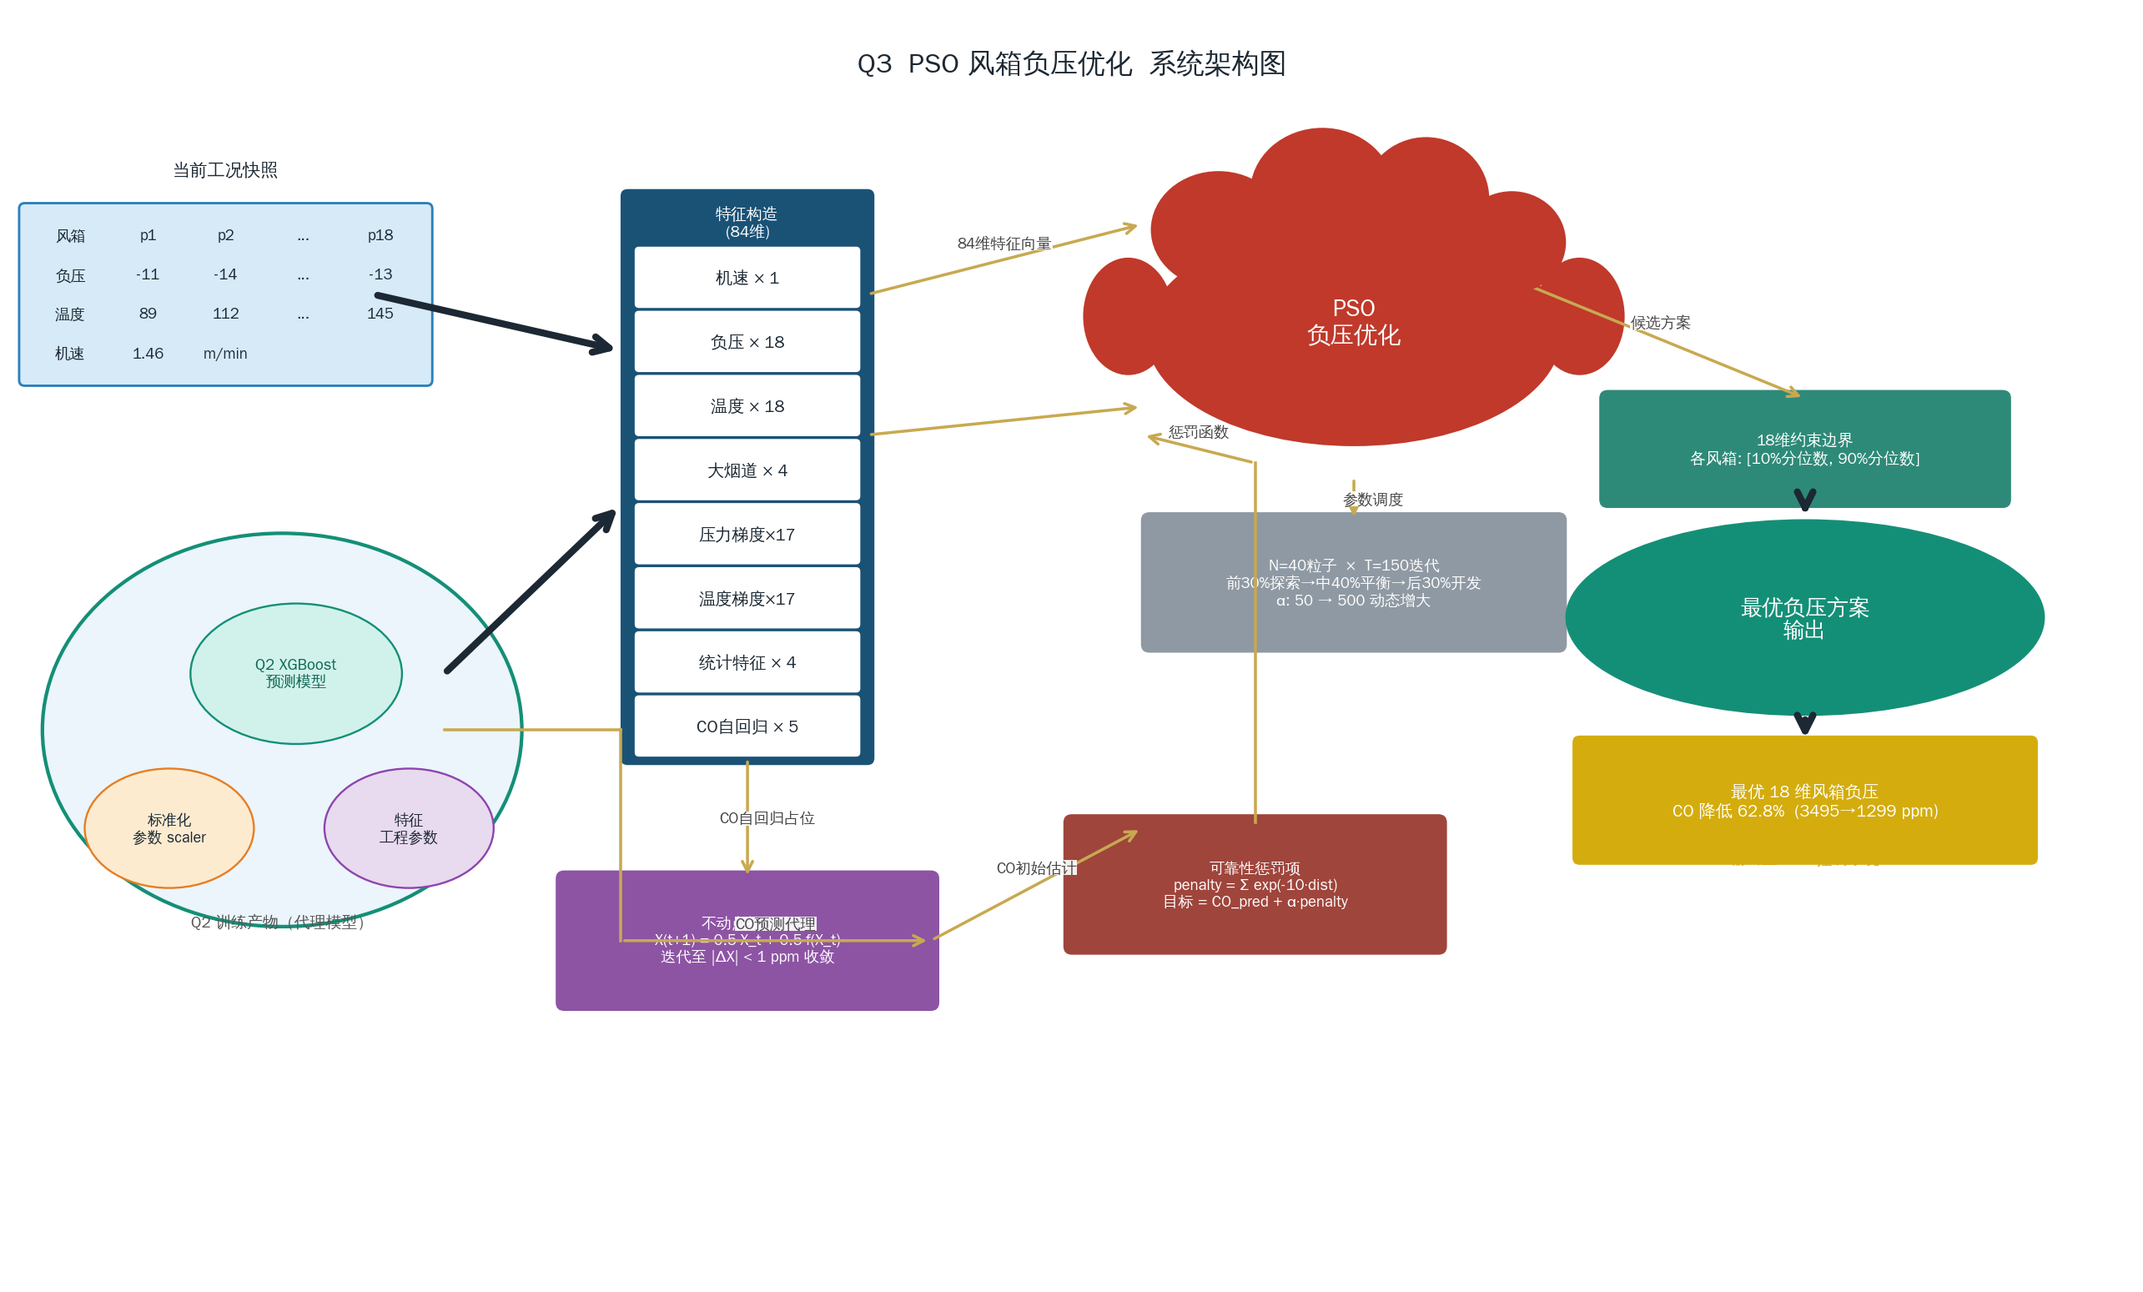
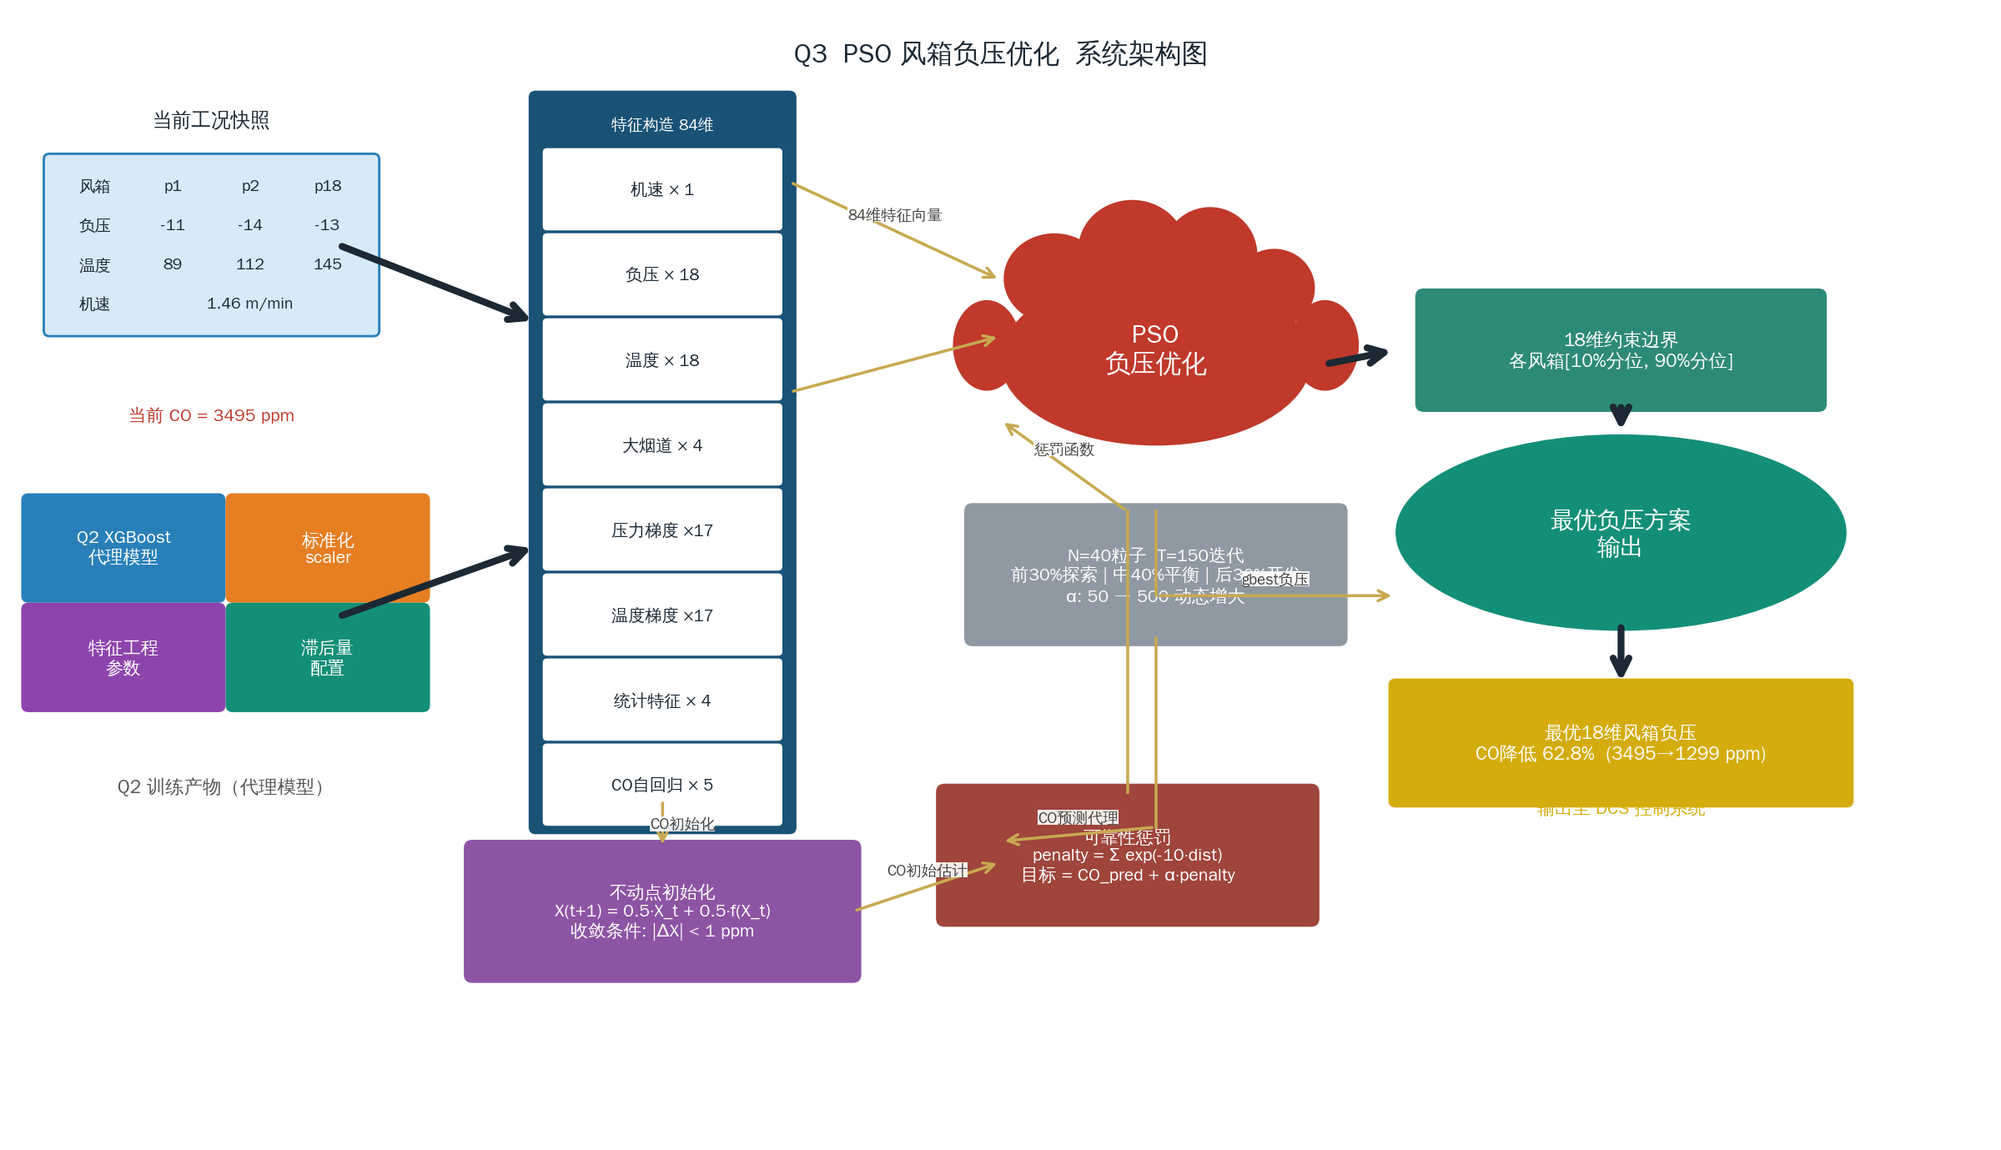
Redesign PSO arch diagrams: smaller clouds, larger fonts, compact layout
Replace oversized background ellipses with 2x2 compact color-block grid.
Increase all font sizes, reduce cloud size to match text proportions.

https://claude.ai/code/session_01LcBaKyPS88nU1pFVtHDwPW

Changed region(s): [[0.0, 0.0624, 0.9562, 0.8731], [0.401, 0.0312, 0.6169, 0.0624], [0.0617, 0.343, 0.1542, 0.3742]]

diff --git a/gen_pso_arch.py b/gen_pso_arch.py
@@ -147,121 +147,109 @@ def thin_arr(ax, pts, lbl='', color=BEIGE, lw=1.5, fs=7.8, li=0, ls='top'):
                 bbox=dict(fc='white', ec='none', pad=0.1, alpha=0.9))
 
 
+def feat_group_grid(ax, cx, cy, items, zorder=4):
+    """2列紧凑特征分组小色块（替代大背景椭圆）"""
+    colors = ['#2980B9','#E67E22','#8E44AD','#148F77']
+    cols, w, h, gap = 2, 1.35, 0.68, 0.10
+    rows = (len(items)+1)//2
+    total_w = cols*w + (cols-1)*gap
+    total_h = rows*h + (rows-1)*gap
+    x0 = cx - total_w/2
+    y0 = cy + total_h/2
+    for i,(label,fc) in enumerate(zip(items, colors)):
+        r, c = divmod(i, cols)
+        bx = x0 + c*(w+gap) + w/2
+        by = y0 - r*(h+gap) - h/2
+        ax.add_patch(FancyBboxPatch((bx-w/2, by-h/2), w, h,
+                     boxstyle='round,pad=0.05', fc=fc, ec='none', zorder=zorder))
+        ax.text(bx, by, label, ha='center', va='center',
+                fontsize=9, color=WHITE, fontweight='bold',
+                zorder=zorder+1, multialignment='center')
+
+
 # ══════════════════════════════════════════════════════════════════════════════
 # Q2 PSO 超参数优化架构图
 # ══════════════════════════════════════════════════════════════════════════════
 def gen_q2():
-    fig, ax = plt.subplots(figsize=(15, 9))
-    ax.set_xlim(0, 15); ax.set_ylim(0, 9)
+    fig, ax = plt.subplots(figsize=(14, 8))
+    ax.set_xlim(0, 14); ax.set_ylim(0, 8)
     ax.axis('off')
     fig.patch.set_facecolor(WHITE)
 
-    # ── 标题 ──
-    ax.text(7.5, 8.65,
-            'Q2  XGBoost-PSO 超参数优化  系统架构图',
-            ha='center', va='center', fontsize=14, fontweight='bold', color='#1C2833')
+    ax.text(7.0, 7.72, 'Q2  XGBoost-PSO 超参数优化  系统架构图',
+            ha='center', va='center', fontsize=13.5, fontweight='bold', color='#1C2833')
 
-    # ── 左：输入数据 ──
-    ax.text(1.5, 7.85, '输入训练数据', ha='center', fontsize=9,
+    # ── 左：输入数据表格 ──
+    ax.text(1.4, 7.2, '输入训练数据', ha='center', fontsize=10,
             fontweight='bold', color='#1C2833')
-    table_box(ax, 1.5, 7.1,
+    table_box(ax, 1.4, 6.35,
               [['x1', 'x2', '...', 'x84'],
                ['p11', 'p12', '...', 'CO1'],
                ['p21', 'p22', '...', 'CO2'],
-               ['.',  '.',  '..',  '.' ]])
-    ax.text(1.5, 5.75, '1624 × 84  训练样本',
-            ha='center', fontsize=8, color='#555555')
+               ['..',  '..',  '...',  '..' ]])
+    ax.text(1.4, 5.1, '1624×84  训练样本',
+            ha='center', fontsize=9, color='#555555')
 
-    # ── 左下：特征分组说明（仿椭圆内含圆）──
-    ax.add_patch(Ellipse((1.8, 4.0), 3.2, 2.6,
-                         fc='#EBF5FB', ec='#2980B9', lw=1.5, zorder=2))
-    ax.add_patch(Ellipse((2.9, 4.5), 1.4, 1.0,
-                         fc='#D6EAF8', ec='#2980B9', lw=1, zorder=3))
-    ax.text(2.9, 4.5, 'p1\n物理特征\n41维',
-            ha='center', va='center', fontsize=7.5,
-            color='#1C2833', zorder=4, multialignment='center')
-    ax.add_patch(Ellipse((1.0, 4.6), 1.1, 0.8,
-                         fc='#FDEBD0', ec='#E67E22', lw=1, zorder=3))
-    ax.text(1.0, 4.6, 'p2\n梯度\n34维',
-            ha='center', va='center', fontsize=7.5,
-            color='#1C2833', zorder=4, multialignment='center')
-    ax.add_patch(Ellipse((1.2, 3.3), 1.0, 0.78,
-                         fc='#E8DAEF', ec='#8E44AD', lw=1, zorder=3))
-    ax.text(1.2, 3.3, 'p3\n统计\n4维',
-            ha='center', va='center', fontsize=7.5,
-            color='#1C2833', zorder=4, multialignment='center')
-    ax.add_patch(Ellipse((2.5, 3.2), 1.1, 0.78,
-                         fc='#D5F5E3', ec='#148F77', lw=1, zorder=3))
-    ax.text(2.5, 3.2, 'p4\nCO自回归\n5维',
-            ha='center', va='center', fontsize=7.5,
-            color='#1C2833', zorder=4, multialignment='center')
-    ax.text(1.8, 2.55, '特征分组（84维）',
-            ha='center', fontsize=8, color='#555555', style='italic')
+    # ── 左下：特征分组（紧凑2×2色块）──
+    feat_group_grid(ax, 1.5, 3.9,
+                    ['物理特征\n41维', '梯度特征\n34维',
+                     '统计特征\n4维',  'CO自回归\n5维'])
+    ax.text(1.5, 2.45, '特征工程（84维）',
+            ha='center', fontsize=9.5, color='#555555', style='italic', fontweight='bold')
 
     # ── 中：特征列表高矩形 ──
-    feat_box(ax, 5.2, 5.8, 1.7, 4.2,
-             '特征体系',
+    feat_box(ax, 4.6, 4.8, 1.8, 5.2,
+             '特征体系 84维',
              ['机速 × 1', '负压 × 18', '温度 × 18',
-              '大烟道 × 4', '压力梯度×17', '温度梯度×17',
-              '统计特征×4', 'CO自回归×5'],
+              '大烟道 × 4', '压力梯度 ×17', '温度梯度 ×17',
+              '统计特征 × 4', 'CO自回归 × 5'],
              bg='#148F77')
 
-    # ── 中：3折CV注释 ──
-    annot_box(ax, 5.2, 2.4, 2.4, 0.7,
-              '3折 TimeSeriesSplit CV\n（PSO内部适应度评估）',
-              fc=PURPLE, fs=8)
+    # ── 中下：3折CV注释 ──
+    annot_box(ax, 4.6, 1.6, 2.5, 0.78,
+              '3折 TimeSeriesSplit CV\n（PSO内部加速评估）',
+              fc=PURPLE, fs=9)
 
-    # ── 中右：PSO 搜索空间注释 ──
-    annot_box(ax, 8.8, 3.0, 2.5, 1.0,
-              '7维超参数搜索空间\nlr∈[0.01,0.50]\ndepth∈[2,8]  n_est∈[50,500]',
-              fc=GRAY, fs=7.8)
+    # ── 中右：搜索空间注释 ──
+    annot_box(ax, 8.0, 2.0, 2.7, 1.0,
+              '7维超参数搜索空间\nlr∈[0.01,0.50]  depth∈[2,8]\nn_est∈[50,500]  sub∈[0.5,1]',
+              fc=GRAY, fs=9)
 
-    # ── 右上：PSO云朵主模型 ──
-    cloud(ax, 9.5, 6.8, 3.2, 2.2, RED,
-          'PSO\n超参数优化',
-          fs=12, italic=True)
-    annot_box(ax, 9.5, 5.1, 2.8, 0.72,
-              'N=8粒子  ×  T=10迭代\nw=0.8,  c1=c2=2.0（固定）',
-              fc='#922B21', fs=8)
+    # ── 右：PSO云朵（缩小，字体放大）──
+    cloud(ax, 8.2, 5.6, 2.4, 1.7, RED,
+          'PSO\n超参数优化', fs=13, italic=True)
+    annot_box(ax, 8.2, 4.0, 2.6, 0.76,
+              'N=8粒子  T=10迭代\nw=0.8,  c1=c2=2.0（固定）',
+              fc='#922B21', fs=9.5)
 
-    # ── 右：XGBoost模型椭圆 ──
-    oval(ax, 12.6, 6.2, 3.5, 1.6, TEAL,
-         'XGBoost\n预测模型', fs=11)
+    # ── 右：XGBoost 椭圆 ──
+    oval(ax, 11.5, 5.4, 3.4, 1.5, TEAL,
+         'XGBoost\n预测模型', fs=12)
 
-    # ── 右下：5折最终评估注释 ──
-    annot_box(ax, 12.6, 4.8, 3.0, 0.72,
-              '5折 TimeSeriesSplit CV\n最终评估  R²=0.8862',
-              fc='#117A65', fs=8)
+    # ── 右下：5折CV ──
+    annot_box(ax, 11.5, 4.1, 3.0, 0.76,
+              '5折 TimeSeriesSplit CV（最终评估）\nR²=0.8862  ±  0.101',
+              fc='#117A65', fs=9)
 
-    # ── 右下：输出 ──
-    proc_box(ax, 12.6, 3.5, 3.0, 0.75,
-             'CO 浓度预测模型\n测试集 R²=0.9493  MAE=43.18 ppm',
-             fc=GOLD, fs=8.5)
-    ax.text(12.6, 3.05, '输出', ha='center', fontsize=8,
+    # ── 输出 ──
+    proc_box(ax, 11.5, 2.8, 3.2, 0.82,
+             'CO 浓度预测模型\n测试集 R²=0.9493   MAE=43 ppm',
+             fc=GOLD, fs=9.5)
+    ax.text(11.5, 2.3, '输出', ha='center', fontsize=9,
             color=GOLD, fontweight='bold')
 
     # ── 连线 ──
-    # 输入 → 特征列表
-    thick_arr(ax, 2.55, 7.1, 4.3, 6.8, '')
-    # 特征分组 → 特征列表
-    thick_arr(ax, 2.85, 4.5, 4.3, 5.0, '')
-    # 特征列表 → PSO
-    thin_arr(ax, [(6.05, 7.5), (8.0, 7.5)], '特征矩阵 X_tr')
-    thin_arr(ax, [(6.05, 6.5), (8.0, 6.1)], '84维特征')
-    thin_arr(ax, [(6.05, 5.2), (8.0, 5.5)], '')
-    # 特征列表 → 3折CV
-    thin_arr(ax, [(5.2, 3.7), (5.2, 2.75)], 'CV数据')
-    # 3折CV → PSO（反馈适应度）
-    thin_arr(ax, [(6.4, 2.4), (8.0, 3.0)], 'CV-R² 适应度')
-    # PSO → XGBoost
-    thick_arr(ax, 10.65, 6.5, 10.8, 6.3, '')
-    # gbest → XGBoost
-    thin_arr(ax, [(9.5, 5.7), (9.5, 4.7), (10.8, 4.7)],
-             'gbest 最优参数', li=1)
-    # XGBoost → 5折CV
-    thin_arr(ax, [(12.6, 5.4), (12.6, 5.15)], '')
-    # 5折CV → 输出
-    thick_arr(ax, 12.6, 4.44, 12.6, 3.88, '')
+    thick_arr(ax, 2.3, 6.35, 3.7, 5.8)
+    thick_arr(ax, 2.4, 3.7, 3.7, 4.2)
+    thin_arr(ax, [(5.5, 6.8), (7.0, 6.2)], '特征矩阵 X_tr')
+    thin_arr(ax, [(5.5, 5.5), (7.0, 5.7)], '84维特征')
+    thin_arr(ax, [(5.5, 3.5), (7.0, 3.9)], '')
+    thin_arr(ax, [(4.6, 2.4), (4.6, 1.99)], 'CV数据')
+    thin_arr(ax, [(5.85, 1.6), (7.0, 2.0)], 'CV-R² 适应度')
+    thick_arr(ax, 9.4, 5.5, 9.8, 5.4)
+    thin_arr(ax, [(8.2, 4.62), (8.2, 3.85), (9.8, 3.85)], 'gbest 最优参数', li=1)
+    thin_arr(ax, [(11.5, 4.65), (11.5, 4.48)])
+    thick_arr(ax, 11.5, 3.73, 11.5, 3.21)
 
     plt.tight_layout(pad=0.3)
     plt.savefig('paper_figures/Q2_PSO_arch.png', dpi=170,
@@ -274,116 +262,87 @@ def gen_q2():
 # Q3 PSO 负压优化架构图
 # ══════════════════════════════════════════════════════════════════════════════
 def gen_q3():
-    fig, ax = plt.subplots(figsize=(15, 9))
-    ax.set_xlim(0, 15); ax.set_ylim(0, 9)
+    fig, ax = plt.subplots(figsize=(14, 8))
+    ax.set_xlim(0, 14); ax.set_ylim(0, 8)
     ax.axis('off')
     fig.patch.set_facecolor(WHITE)
 
-    ax.text(7.5, 8.65,
-            'Q3  PSO 风箱负压优化  系统架构图',
-            ha='center', va='center', fontsize=14, fontweight='bold', color='#1C2833')
+    ax.text(7.0, 7.72, 'Q3  PSO 风箱负压优化  系统架构图',
+            ha='center', va='center', fontsize=13.5, fontweight='bold', color='#1C2833')
 
-    # ── 左：当前工况输入 ──
-    ax.text(1.5, 7.85, '当前工况快照', ha='center', fontsize=9,
+    # ── 左：当前工况表格 ──
+    ax.text(1.4, 7.2, '当前工况快照', ha='center', fontsize=10,
             fontweight='bold', color='#1C2833')
-    table_box(ax, 1.5, 7.0,
-              [['风箱', 'p1', 'p2', '...', 'p18'],
-               ['负压', '-11', '-14', '...', '-13'],
-               ['温度', '89', '112', '...', '145'],
-               ['机速', '1.46', 'm/min', '', '']],
-              fs=7.8)
+    table_box(ax, 1.4, 6.35,
+              [['风箱', 'p1', 'p2', 'p18'],
+               ['负压', '-11', '-14', '-13'],
+               ['温度', '89', '112', '145'],
+               ['机速', '', '1.46 m/min', '']],
+              fs=8.2)
+    ax.text(1.4, 5.1, '当前 CO = 3495 ppm',
+            ha='center', fontsize=9, color='#C0392B', fontweight='bold')
 
-    # ── 左下：Q2 模型组（椭圆内含圆）──
-    ax.add_patch(Ellipse((1.9, 3.9), 3.4, 2.8,
-                         fc='#EBF5FB', ec='#148F77', lw=1.8, zorder=2))
-    ax.add_patch(Ellipse((2.0, 4.3), 1.5, 1.0,
-                         fc='#D1F2EB', ec='#148F77', lw=1, zorder=3))
-    ax.text(2.0, 4.3, 'Q2 XGBoost\n预测模型',
-            ha='center', va='center', fontsize=7.8,
-            color='#0E6655', fontweight='bold', zorder=4, multialignment='center')
-    ax.add_patch(Ellipse((1.1, 3.2), 1.2, 0.85,
-                         fc='#FDEBD0', ec='#E67E22', lw=1, zorder=3))
-    ax.text(1.1, 3.2, '标准化\n参数 scaler',
-            ha='center', va='center', fontsize=7.5,
-            color='#1C2833', zorder=4, multialignment='center')
-    ax.add_patch(Ellipse((2.8, 3.2), 1.2, 0.85,
-                         fc='#E8DAEF', ec='#8E44AD', lw=1, zorder=3))
-    ax.text(2.8, 3.2, '特征\n工程参数',
-            ha='center', va='center', fontsize=7.5,
-            color='#1C2833', zorder=4, multialignment='center')
-    ax.text(1.9, 2.5, 'Q2 训练产物（代理模型）',
-            ha='center', fontsize=8, color='#555555', style='italic')
+    # ── 左下：Q2代理模型（紧凑色块组）──
+    feat_group_grid(ax, 1.5, 3.8,
+                    ['Q2 XGBoost\n代理模型', '标准化\nscaler',
+                     '特征工程\n参数', '滞后量\n配置'])
+    ax.text(1.5, 2.45, 'Q2 训练产物（代理模型）',
+            ha='center', fontsize=9.5, color='#555555', style='italic', fontweight='bold')
 
     # ── 中：特征构造列表 ──
-    feat_box(ax, 5.2, 5.7, 1.7, 4.0,
-             '特征构造\n(84维)',
+    feat_box(ax, 4.6, 4.8, 1.8, 5.2,
+             '特征构造 84维',
              ['机速 × 1', '负压 × 18', '温度 × 18',
-              '大烟道 × 4', '压力梯度×17', '温度梯度×17',
+              '大烟道 × 4', '压力梯度 ×17', '温度梯度 ×17',
               '统计特征 × 4', 'CO自回归 × 5'],
              bg='#1A5276')
 
-    # ── 中：不动点初始化注释 ──
-    annot_box(ax, 5.2, 2.4, 2.6, 0.88,
-              '不动点初始化\nX(t+1) = 0.5·X_t + 0.5·f(X_t)\n迭代至 |ΔX| < 1 ppm 收敛',
-              fc=PURPLE, fs=7.8)
+    # ── 中下：不动点注释 ──
+    annot_box(ax, 4.6, 1.6, 2.7, 0.9,
+              '不动点初始化\nX(t+1) = 0.5·X_t + 0.5·f(X_t)\n收敛条件: |ΔX| < 1 ppm',
+              fc=PURPLE, fs=9)
 
-    # ── 中右：可靠性惩罚注释 ──
-    annot_box(ax, 8.8, 2.8, 2.6, 0.88,
-              '可靠性惩罚项\npenalty = Σ exp(-10·dist)\n目标 = CO_pred + α·penalty',
-              fc='#922B21', fs=7.8)
+    # ── 中右：惩罚项注释 ──
+    annot_box(ax, 7.9, 2.0, 2.6, 0.9,
+              '可靠性惩罚\npenalty = Σ exp(-10·dist)\n目标 = CO_pred + α·penalty',
+              fc='#922B21', fs=9)
 
-    # ── 右上：PSO云朵主模型 ──
-    cloud(ax, 9.5, 6.8, 3.2, 2.2, RED,
-          'PSO\n负压优化',
-          fs=12, italic=True)
+    # ── 右：PSO云朵 ──
+    cloud(ax, 8.1, 5.6, 2.4, 1.7, RED,
+          'PSO\n负压优化', fs=13, italic=True)
+    annot_box(ax, 8.1, 4.0, 2.6, 0.9,
+              'N=40粒子  T=150迭代\n前30%探索 | 中40%平衡 | 后30%开发\nα: 50 → 500 动态增大',
+              fc=GRAY, fs=9)
 
-    # ── PSO 自适应参数注释 ──
-    annot_box(ax, 9.5, 4.95, 2.9, 0.88,
-              'N=40粒子  ×  T=150迭代\n前30%探索→中40%平衡→后30%开发\nα: 50 → 500 动态增大',
-              fc=GRAY, fs=7.8)
+    # ── 右：约束注释 ──
+    annot_box(ax, 11.4, 5.6, 2.8, 0.76,
+              '18维约束边界\n各风箱[10%分位, 90%分位]',
+              fc='#117A65', fs=9.5)
 
-    # ── 右：约束边界注释 ──
-    annot_box(ax, 12.7, 5.9, 2.8, 0.72,
-              '18维约束边界\n各风箱: [10%分位数, 90%分位数]',
-              fc='#117A65', fs=8)
-
-    # ── 右下：输出椭圆 ──
-    oval(ax, 12.7, 4.7, 3.4, 1.4, TEAL,
-         '最优负压方案\n输出', fs=11)
+    # ── 右：输出椭圆 ──
+    oval(ax, 11.4, 4.3, 3.2, 1.4, TEAL,
+         '最优负压方案\n输出', fs=12)
 
     # ── 输出结果框 ──
-    proc_box(ax, 12.7, 3.4, 3.2, 0.82,
-             '最优 18 维风箱负压\nCO 降低 62.8%  (3495→1299 ppm)',
-             fc=GOLD, fs=8.5)
-    ax.text(12.7, 2.95, '输出至 DCS 控制系统',
-            ha='center', fontsize=8, color=GOLD, fontweight='bold')
+    proc_box(ax, 11.4, 2.8, 3.2, 0.82,
+             '最优18维风箱负压\nCO降低 62.8%  (3495→1299 ppm)',
+             fc=GOLD, fs=9.5)
+    ax.text(11.4, 2.3, '输出至 DCS 控制系统',
+            ha='center', fontsize=9, color=GOLD, fontweight='bold')
 
     # ── 连线 ──
-    # 当前工况 → 特征构造
-    thick_arr(ax, 2.55, 7.0, 4.3, 6.6, '')
-    # Q2模型 → 特征构造
-    thick_arr(ax, 3.05, 4.3, 4.3, 5.5, '')
-    # 特征构造 → 不动点初始化
-    thin_arr(ax, [(5.2, 3.7), (5.2, 2.84)], 'CO自回归占位')
-    # 不动点 → PSO
-    thin_arr(ax, [(6.5, 2.4), (8.0, 3.2)], 'CO初始估计')
-    # 特征构造 → PSO
-    thin_arr(ax, [(6.05, 7.0), (8.0, 7.5)], '84维特征向量')
-    thin_arr(ax, [(6.05, 6.0), (8.0, 6.2)], '')
-    # 可靠性惩罚 → PSO
-    thin_arr(ax, [(8.8, 3.24), (8.8, 5.8), (8.0, 6.0)],
-             '惩罚函数', li=1)
-    # PSO → 约束
-    thin_arr(ax, [(10.65, 7.1), (12.7, 6.26)], '候选方案')
-    # PSO → 自适应参数（自环标注）
-    thin_arr(ax, [(9.5, 5.7), (9.5, 5.39)], '参数调度')
-    # 约束 → 输出椭圆
-    thick_arr(ax, 12.7, 5.54, 12.7, 5.4, '')
-    # 输出椭圆 → 结果框
-    thick_arr(ax, 12.7, 4.0, 12.7, 3.81, '')
-    # Q2模型 → PSO（代理预测）
-    thin_arr(ax, [(3.05, 3.9), (4.3, 3.9), (4.3, 2.4), (6.5, 2.4)],
-             'CO预测代理', li=2)
+    thick_arr(ax, 2.3, 6.35, 3.7, 5.8)
+    thick_arr(ax, 2.3, 3.7, 3.7, 4.2)
+    thin_arr(ax, [(5.5, 6.8), (7.0, 6.1)], '84维特征向量')
+    thin_arr(ax, [(5.5, 5.3), (7.0, 5.7)], '')
+    thin_arr(ax, [(4.6, 2.4), (4.6, 2.05)], 'CO初始化')
+    thin_arr(ax, [(5.95, 1.6), (7.0, 1.95)], 'CO初始估计')
+    thin_arr(ax, [(7.9, 2.45), (7.9, 4.45), (7.0, 5.1)], '惩罚函数', li=1)
+    thick_arr(ax, 9.3, 5.5, 9.8, 5.6)
+    thin_arr(ax, [(8.1, 4.45), (8.1, 3.85), (9.8, 3.85)], 'gbest负压', li=1)
+    thin_arr(ax, [(8.1, 3.55), (8.1, 2.2), (7.0, 2.1)], 'CO预测代理', li=1)
+    thick_arr(ax, 11.4, 5.22, 11.4, 5.0)
+    thick_arr(ax, 11.4, 3.65, 11.4, 3.21)
 
     plt.tight_layout(pad=0.3)
     plt.savefig('paper_figures/Q3_PSO_arch.png', dpi=170,
